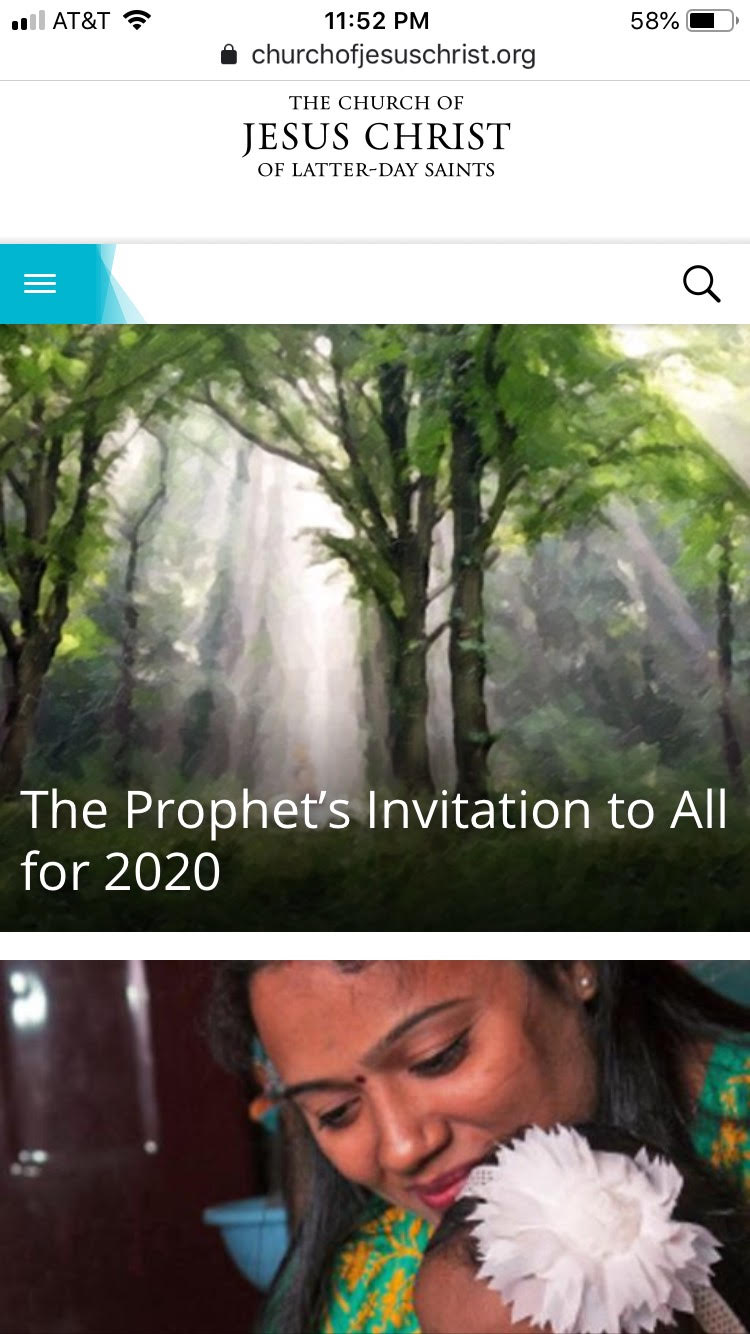
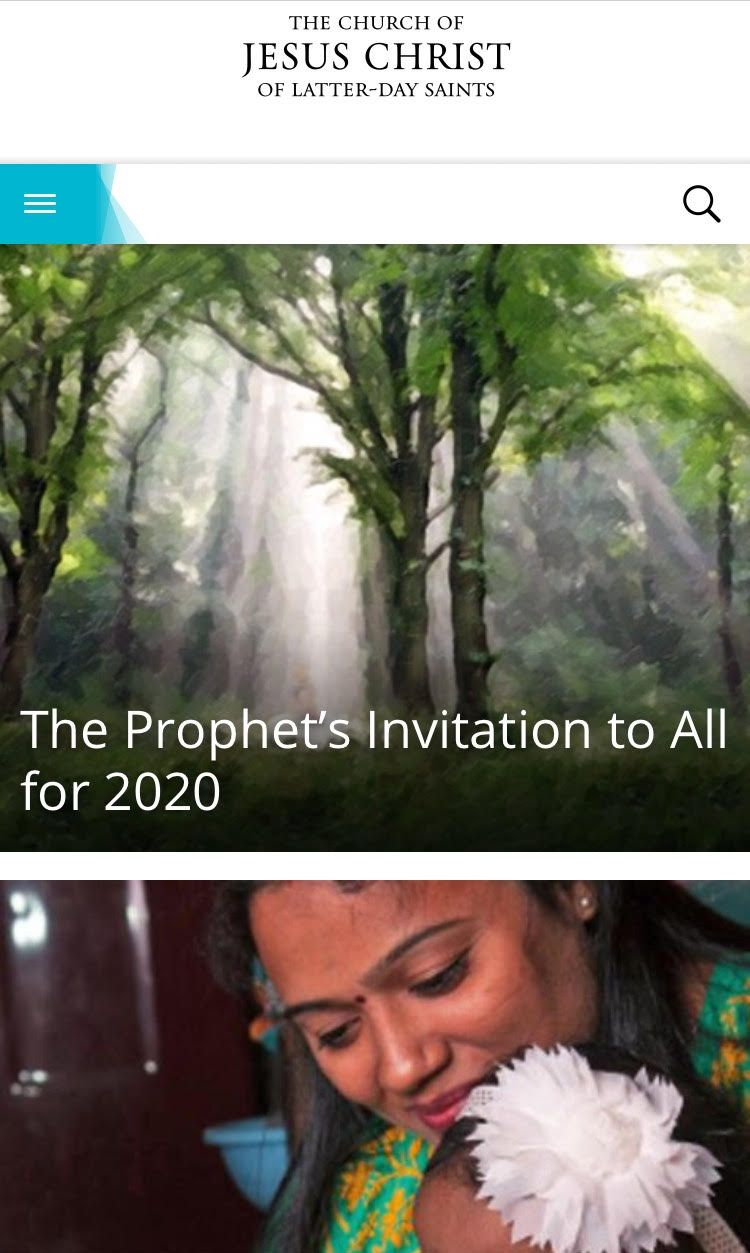
removed flex box, did grid box and media queries, cropped images

diff --git a/lesson2/design-principles.html b/lesson2/design-principles.html
@@ -10,74 +10,63 @@
     <link href="https://fonts.googleapis.com/css?family=Righteous&display=swap" rel="stylesheet">
     <link href="https://fonts.googleapis.com/css?family=Hind+Vadodara&display=swap" rel="stylesheet">
     <link rel="stylesheet" href="../CSS/normalize.css">
+    <link rel="stylesheet" href="css/styles.css" />
     <link rel="stylesheet" href="../CSS/small.css" />
     <link rel="stylesheet" href="../CSS/medium.css" />
-    <link rel="stylesheet" href="css/styles.css" />
     <script src="js/scripts.js"></script>
 </head>
 
 <body onload="lastUpdated()">
     <header>
-        <img class="selfImage" src="../assets/self.jpg" alt="picture of student">
         <div>
-          <h1>Matthew N. Baldwin</h1>
+            <h1>Matthew N. Baldwin</h1>
         </div>
-      </header>
+    </header>
+    <h2>CIT 230: Design Principles</h2>
+    <hr>
     <main>
-        <h2>CIT 230: Design Principles</h2>
-        <hr>
         <section>
-            <div class="wordscol">
-                <h3>Deisgn Principle 1 - PARC - Contrast</h3>
-                <ul>
-                    <li>Company/Organization: Ibanez Guitars</li>
-                    <li>URL: <a href="https://www.ibanez.com/">https://www.ibanez.com/</a></li>
-                    <li>The Ibanez website looks great. Here is an excellent example demonstrating the design
-                        principle of
-                        contrast. The white font really pops on top of the attractive, darker background.
-                    </li>
-                </ul>
+            <h3>Contrast</h3>
+            <div>
+                Ibanez Guitars
+                <br>
+                <br>
+                <a href="https://www.ibanez.com/">ibanez.com</a>
+                <img src="images/ibanez.jpg" alt="Ibanez website showing contrast design principle" />
+                <p>The Ibanez website looks great. Here is an excellent example demonstrating the design
+                    principle of
+                    contrast. The white font really pops on top of the attractive, darker background.</p>
             </div>
-            <div class="imagecol"> <img src="images/ibanez.jpg"
-                    alt="Ibanez website showing contrast design principle" /></div>
         </section>
         <section>
-            <div class="imagecol">
+            <h3>Fitt's Law</h3>
+            <div>
+                The Church of Jesus Christ of Latter Day Saints
+                <br>
+                <a href="https://www.churchofjesuschrist.org/">churchofjesuschrist.org</a>
                 <img src="images/church.jpg" alt="Church website showing Fitt's law design principle" />
-            </div>
-            <div class="wordscol">
-                <h3>Deisgn Principle 2 - Fitt's Law</h3>
-                <ul>
-                    <li>Company/Organization: The Church Of Jesus Christ Of Latter Day Saints</li>
-                    <li>URL: <a href="https://www.churchofjesuschrist.org/">https://www.churchofjesuschrist.org/</a>
-                    </li>
-                    <li>Fitt's law predicts that the time required to move to a target area is a function of the
-                        ratio between the distance to the target and the width
-                        of the target. The design of The Church Of Jesus Christ Of Latter Days Saints website takes
-                        this into account. On the website there are several articles you can navigate to, scrolling
-                        from
-                        the top down. Each large square image is actually a clickable button which links the to the
-                        articles.
-                        This makes the website very easy to use, and it works well on a mobile device.
-                    </li>
-                </ul>
+                <p>Fitt's law predicts that the time required to move to a target area is a function of the
+                    ratio between the distance to the target and the width
+                    of the target. The design of The Church Of Jesus Christ Of Latter Days Saints website takes
+                    this into account. On the website there are several articles you can navigate to, scrolling
+                    from
+                    the top down. Each large square image is actually a clickable button which links the to the
+                    articles.
+                    This makes the website very easy to use, and it works well on a mobile device.</p>
             </div>
         </section>
-        <section id="principle3">
-            <div class="wordscol">
-                <h3>Deisgn Principle 3 - PARC - Alignment</h3>
-                <ul>
-                    <li>Company/Organization: Gibson Brands</li>
-                    <li>URL: <a href="https://www.gibson.com/">https://www.gibson.com/</a></li>
-                    <li>In addition to using the design concepts of negative space and proximity, the Gibson
-                        website uses both vertical and horizontal alignment. The result is a well organized,
-                        attractive
-                        layout that provides a great user experience.
-                    </li>
-                </ul>
-            </div>
-            <div class="imagecol">
-                <img src="images/gibson.jpg" alt="Gibson website showing PARC: Alignment design principle" />
+        <section>
+            <h3>Alignment</h3>
+            <div>
+                Gibson Brands
+                <br>
+                <br>
+                <a href="https://www.gibson.com/">gibson.com</a>
+                <img src="images/gibson.jpg" alt="Gibson website showing alignment design principle" />
+                <p>In addition to using the design concepts of negative space and proximity, the Gibson
+                    website uses both vertical and horizontal alignment. The result is a well organized,
+                    attractive
+                    layout that provides a great user experience.</p>
             </div>
         </section>
     </main>

diff --git a/lesson2/design-principles copy.html b/lesson2/design-principles copy.html
@@ -1,0 +1,93 @@
+<!DOCTYPE html>
+<html lang="en-us">
+
+<head>
+    <title>CIT 230: Design Principles</title>
+    <meta charset="utf-8" />
+    <meta name="viewport" content="width=device-width, initial-scale=1" />
+    <meta name="description"
+        content="Design Principles page by M Baldwin in CIT 230: Web Frontend Development at BYUI.">
+    <link href="https://fonts.googleapis.com/css?family=Righteous&display=swap" rel="stylesheet">
+    <link href="https://fonts.googleapis.com/css?family=Hind+Vadodara&display=swap" rel="stylesheet">
+    <link rel="stylesheet" href="../CSS/normalize.css">
+    <link rel="stylesheet" href="../CSS/small.css" />
+    <link rel="stylesheet" href="../CSS/medium.css" />
+    <link rel="stylesheet" href="css/styles.css" />
+    <script src="js/scripts.js"></script>
+</head>
+
+<body onload="lastUpdated()">
+    <header>
+        <img class="selfImage" src="../assets/self.jpg" alt="picture of student">
+        <div>
+          <h1>Matthew N. Baldwin</h1>
+        </div>
+      </header>
+    <main>
+        <h2>CIT 230: Design Principles</h2>
+        <hr>
+        <section>
+            <div class="wordscol">
+                <h3>Deisgn Principle 1 - PARC - Contrast</h3>
+                <ul>
+                    <li>Company/Organization: Ibanez Guitars</li>
+                    <li>URL: <a href="https://www.ibanez.com/">https://www.ibanez.com/</a></li>
+                    <li>The Ibanez website looks great. Here is an excellent example demonstrating the design
+                        principle of
+                        contrast. The white font really pops on top of the attractive, darker background.
+                    </li>
+                </ul>
+            </div>
+            <div class="imagecol"> <img src="images/ibanez.jpg"
+                    alt="Ibanez website showing contrast design principle" /></div>
+        </section>
+        <section>
+            <div class="imagecol">
+                <img src="images/church.jpg" alt="Church website showing Fitt's law design principle" />
+            </div>
+            <div class="wordscol">
+                <h3>Deisgn Principle 2 - Fitt's Law</h3>
+                <ul>
+                    <li>Company/Organization: The Church Of Jesus Christ Of Latter Day Saints</li>
+                    <li>URL: <a href="https://www.churchofjesuschrist.org/">https://www.churchofjesuschrist.org/</a>
+                    </li>
+                    <li>Fitt's law predicts that the time required to move to a target area is a function of the
+                        ratio between the distance to the target and the width
+                        of the target. The design of The Church Of Jesus Christ Of Latter Days Saints website takes
+                        this into account. On the website there are several articles you can navigate to, scrolling
+                        from
+                        the top down. Each large square image is actually a clickable button which links the to the
+                        articles.
+                        This makes the website very easy to use, and it works well on a mobile device.
+                    </li>
+                </ul>
+            </div>
+        </section>
+        <section id="principle3">
+            <div class="wordscol">
+                <h3>Deisgn Principle 3 - PARC - Alignment</h3>
+                <ul>
+                    <li>Company/Organization: Gibson Brands</li>
+                    <li>URL: <a href="https://www.gibson.com/">https://www.gibson.com/</a></li>
+                    <li>In addition to using the design concepts of negative space and proximity, the Gibson
+                        website uses both vertical and horizontal alignment. The result is a well organized,
+                        attractive
+                        layout that provides a great user experience.
+                    </li>
+                </ul>
+            </div>
+            <div class="imagecol">
+                <img src="images/gibson.jpg" alt="Gibson website showing PARC: Alignment design principle" />
+            </div>
+        </section>
+    </main>
+    <footer>
+        <div class="copyright">
+            <p>&copy; 2020 | Matthew N. Baldwin | Arizona | <a href="https://www.byui.edu/online">BYUI Online
+                    Learning</a><br>
+                <span id="spanLastUpdated" class="lastupdated"></span></p>
+        </div>
+    </footer>
+</body>
+
+</html>

diff --git a/lesson2/css/styles.css b/lesson2/css/styles.css
@@ -1,29 +1,40 @@
+main {
+    display: grid;
+    grid-template-columns: 1fr;
+}
+
+
+@media only screen and (min-width: 37.5em) {
+
+    main {
+        grid-template-columns: 1fr 1fr;
+    }
+}
+
+@media only screen and (min-width: 60em) {
+    main {
+        grid-template-columns: 1fr 1fr 1fr;
+    }
+}
+
 section {
-    display: flex;
-    flex-flow: row wrap;
-    align-items: center;
-    padding: 15px;
+    background-image: linear-gradient(#EFEFEF, white);
     box-shadow: 2px 2px 1px grey;
     border: 1px outset #002642;
-    margin: 0 auto;
-    width: 96.5%;    
-    margin-top: 20px;  
-    /* background-image: linear-gradient(rgba(218,218,218,1),rgba(218,218,218,0));    */
-    background-image: linear-gradient(#EFEFEF, #EFEFEF, white);     
+    margin: 8px;
 }
 
-img {
-    max-width: 96.5         ;
+main section h3 {
+    margin-top: auto;
+    background-color: #002642;
+    color: #99F6FF;
+    padding: 3px;
+
 }
 
-.wordscol,
-.imagecol {
-    width: 40%;
-    padding: 8px;    
-    /* height: auto; */
-}
+main section div {
 
-.wordscol {
-    margin-bottom: auto;
-    flex: 1;
+    padding-left: 8px;
+    padding-right: 8px;
+    padding-bottom: 8px;
 }

diff --git a/CSS/small.css b/CSS/small.css
@@ -1,6 +1,6 @@
 body {
   font-family: 'Hind Vadodara', Verdana, Helvetica, Arial;
-  max-width: 940px;
+  max-width: 960px;
   margin: 0 auto;
 }
 
@@ -22,7 +22,7 @@ a{
 }
 footer {
   margin: 5px auto;
-  max-width: 940px;
+  max-width: 960px;
   padding: 5px;
   background-color: #002642;
   color: #99F6FF;
@@ -49,7 +49,7 @@ footer a {
 
 header {
   margin: 5px auto;
-  max-width: 940px;
+  max-width: 960px;
   background-color: #002642;
   color: #99F6FF;
   padding: 4px;
